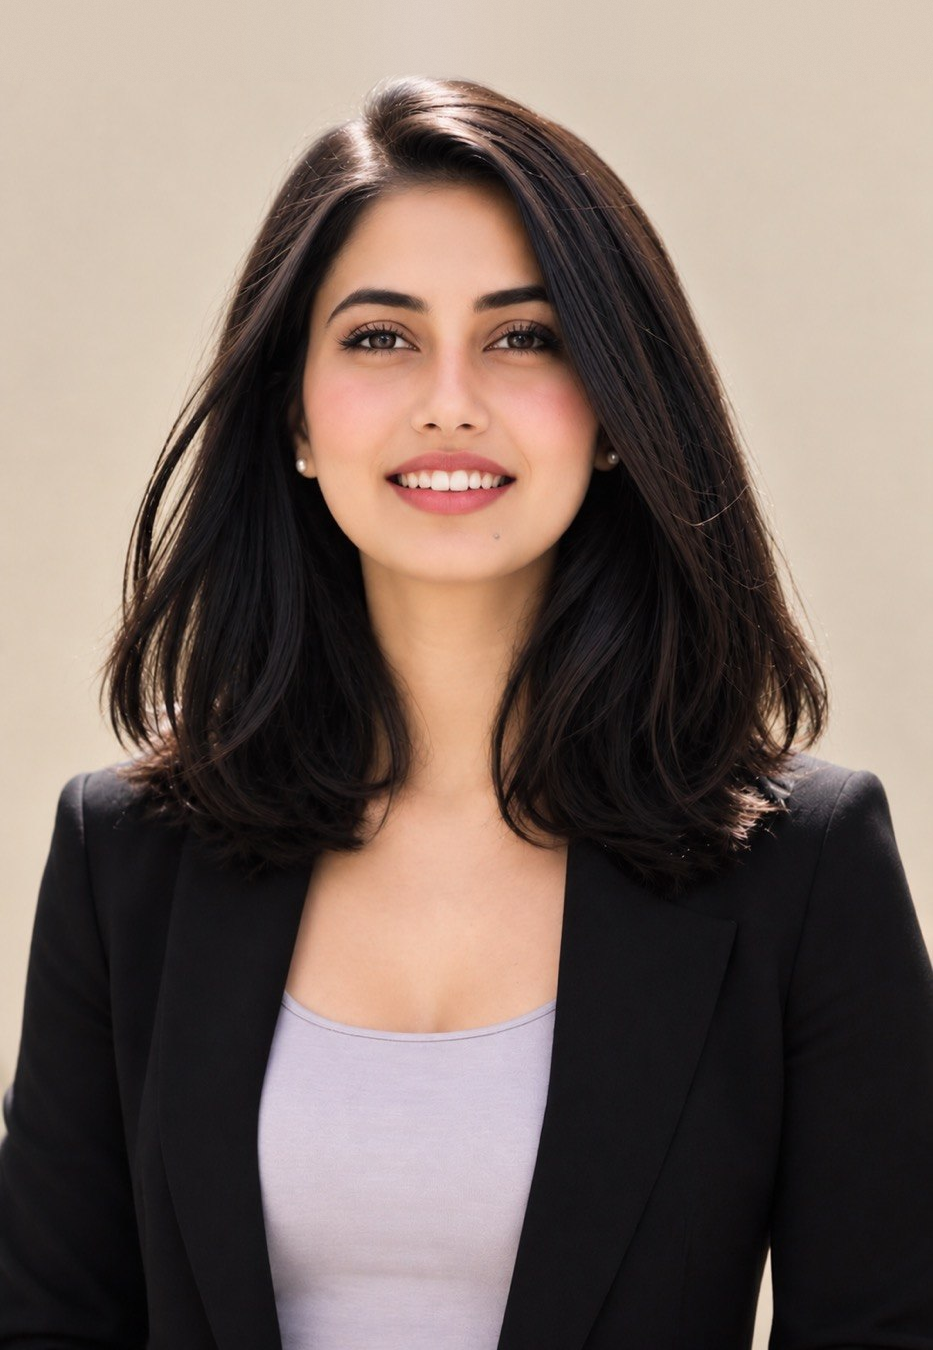
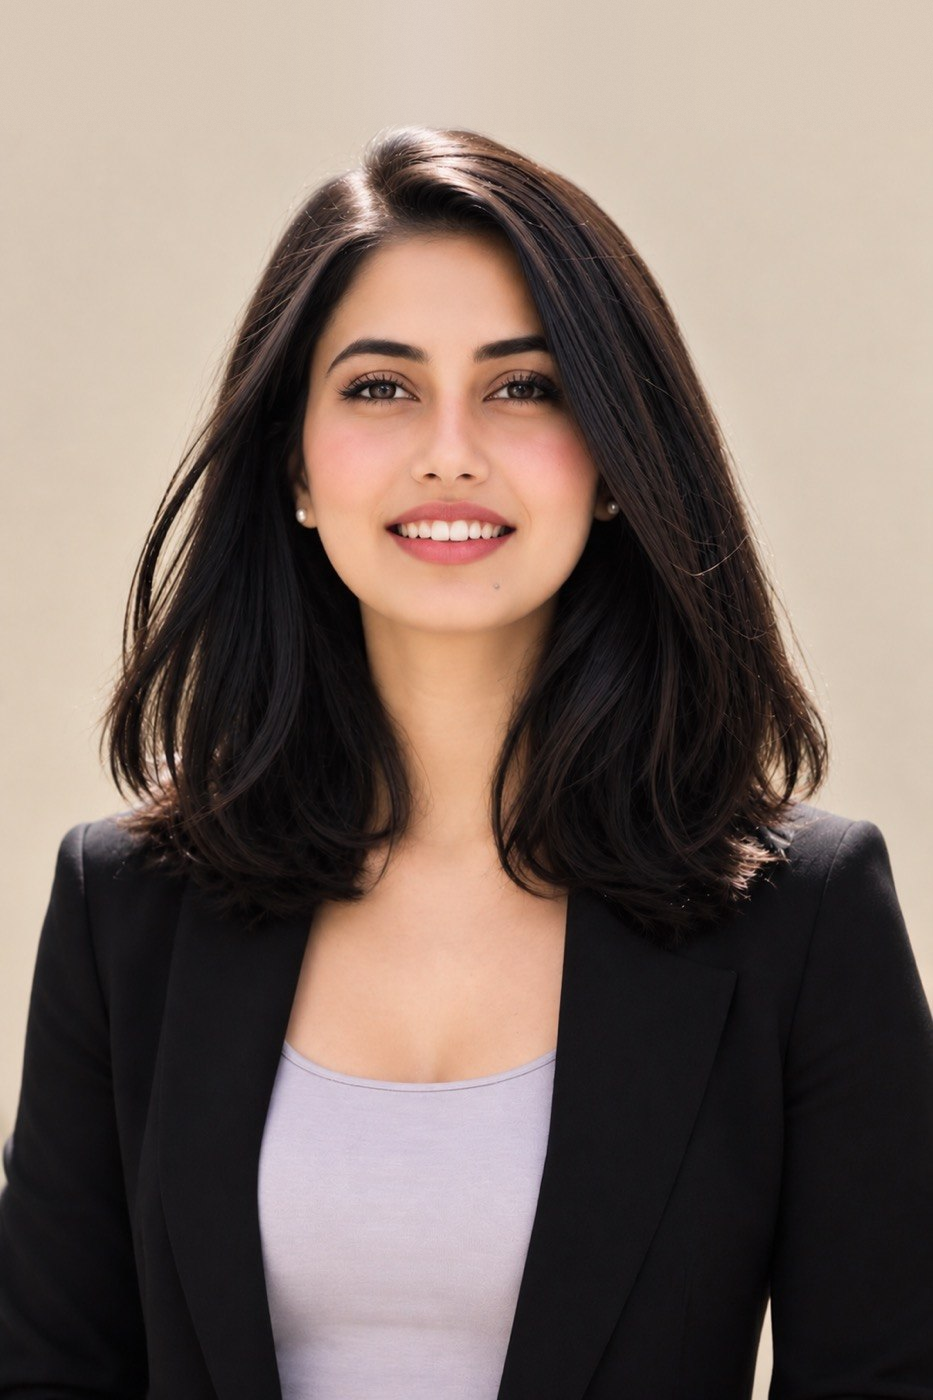
Set hero portrait headroom to 120px
Claude-Session: https://claude.ai/code/session_01AzR9C6W97ninb1X9sfMRBP

diff --git a/layouts/landing/list.html b/layouts/landing/list.html
@@ -136,7 +136,7 @@ nav{
   border-radius:18px;overflow:hidden;
   background:linear-gradient(160deg,var(--cream) 0%,var(--blush) 45%,var(--rose) 100%);
   border:1px solid var(--rule);
-  aspect-ratio:933/1350;width:100%;
+  aspect-ratio:933/1400;width:100%;
   display:flex;flex-direction:column;align-items:center;justify-content:center;gap:.75rem;
   position:relative;cursor:pointer;
   box-shadow:0 8px 40px rgba(39,21,16,.08);
@@ -601,7 +601,7 @@ footer span{font-size:.7rem;font-weight:600;color:rgba(255,255,255,.55);letter-s
   .pub-links{flex-direction:row;align-items:flex-start;}
   .ticker{display:none;}
   .h-right{flex-direction:column;}
-  .h-photo{flex:none;aspect-ratio:933/1350;width:100%;}
+  .h-photo{flex:none;aspect-ratio:933/1400;width:100%;}
   .hobby-grid{grid-template-columns:repeat(2,1fr);}
   .proj-card{grid-template-columns:1fr;gap:1.5rem;padding:1.5rem;}
 }
